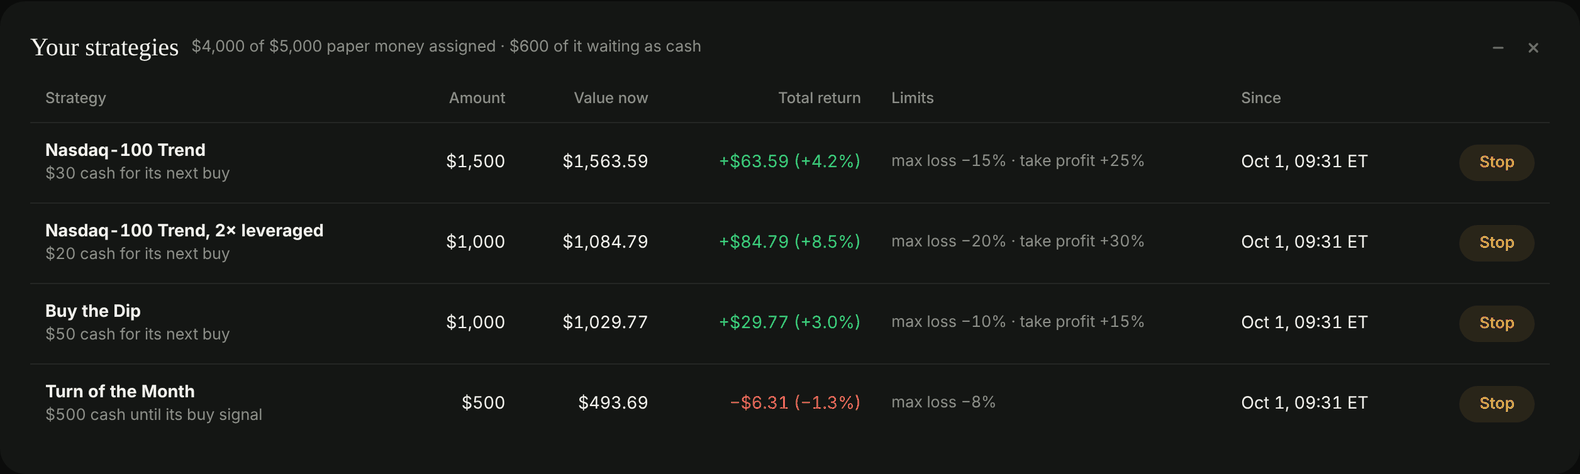
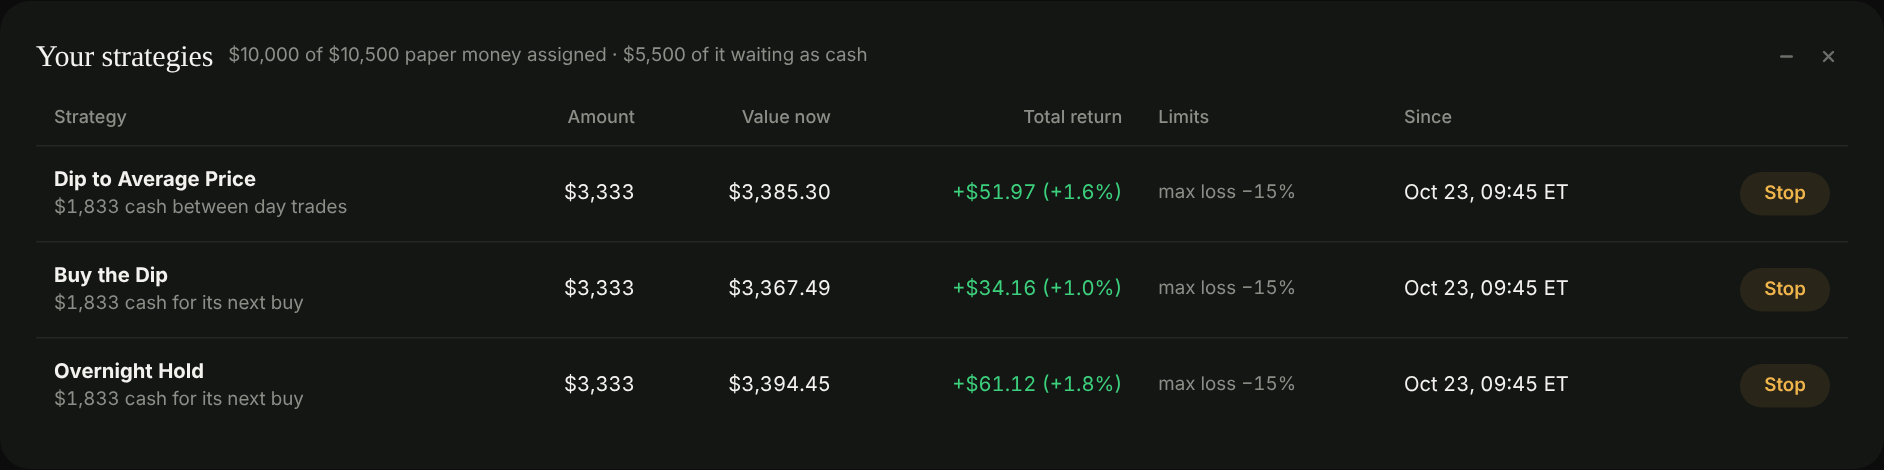
Refresh README, docs and screenshots for Invest for me, top-up and the strategy library
- New dark-mode screenshots from a made-up demo account (randomly generated prices, paper
  only): Home, Autopilot with Invest for me and Add paper cash, the strategy library, Your
  strategies and Research. The stale Discover and Invest images are removed.
- README and COMMANDS: Invest for me (weekly re-pick, keeps picks funded, works with
  Autopilot), Add paper cash, Last Half-Hour Momentum, the daily readout, the Hetzner server.
  ARCHITECTURE lists allocations, auto_invest, readout and intraday.
- Dashboard: the top-up and Invest-for-me rows ignored their hidden attribute (display:flex
  won), so 'Add -$176 paper cash' showed when the account was over its limit.
- test_readout uses a documentation IP (203.0.113.7) in its masking fixture.

Claude-Session: https://claude.ai/code/session_01SPmZ1w2eDJsqxAmfkabzfc

diff --git a/src/ctbot/dashboard/index.html b/src/ctbot/dashboard/index.html
@@ -428,6 +428,7 @@ code { font: 12px var(--code); background: rgba(var(--tint), .06); padding: 1px 
 .ap-h3 { font: 500 14px var(--sans); color: var(--ink); margin: 20px 0 8px; }
 .empty-row { display: flex; align-items: center; justify-content: space-between; gap: 12px; flex-wrap: wrap; color: var(--ink-2); }
 .empty-row p { margin: 0; }
+.empty-row[hidden] { display: none; }  /* display:flex would otherwise beat the hidden attribute */
 /* ---- home positions ---- */
 .holdings { display: grid; }
 .hrow { display: flex; justify-content: space-between; align-items: center; gap: 12px; padding: 12px 0; border-bottom: 1px solid var(--line); }

diff --git a/tests/test_readout.py b/tests/test_readout.py
@@ -39,7 +39,7 @@ def _settings(tmp_path):
     logs = tmp_path / "logs"
     logs.mkdir()
     (logs / "ctbot-paper.log").write_text(
-        "2026-10-21 10:00:00,1 WARNING ctbot.x quote late from 95.217.169.154 key sk-ant-abcdefghijklmnopqrstuvwxyz\n"
+        "2026-10-21 10:00:00,1 WARNING ctbot.x quote late from 203.0.113.7 key sk-ant-abcdefghijklmnopqrstuvwxyz\n"
         "2026-10-21 10:05:00,1 ERROR ctbot.variants book tight cycle failed; continuing\n"
         "2026-10-20 10:05:00,1 ERROR ctbot.x yesterday's error\n")
     return Settings.from_env({"PAPER_LEDGER_PATH": str(data / "paper_ledger.json"), "LOG_DIR": str(logs),
@@ -55,7 +55,7 @@ def test_readout_ranks_books_and_lists_trades_halts_and_masked_events(tmp_path):
     assert "closed AAPL +50.00 (trail)" in text and "bought: MSFT" in text and "closed NVDA -20.00 (stop)" in text
     assert "pulled back: SPY below its trend" in text
     assert "1 errors, 1 warnings" in text and "yesterday" not in text
-    assert "95.217" not in text and "sk-ant" not in text and "<ip>" in text and "<token>" in text
+    assert "203.0.113" not in text and "sk-ant" not in text and "<ip>" in text and "<token>" in text
 
 
 def test_sent_once_15_minutes_after_the_close(tmp_path, monkeypatch):

diff --git a/README.md b/README.md
@@ -15,16 +15,16 @@ no servers of ours, no tracking: your keys and data stay on your machine (or on 
 yourself, see [Run it on a server](#run-it-on-a-server-recommended-for-all-day-trading)).
 
 <p align="center">
-  <img src="docs/images/home.png" alt="CTbot Home screen in dark mode: account value, today's return, cash and other summary tiles, and What you own: QQQ, QLD and IWM with the strategy that bought each, gain or loss and a stop-loss bar" width="790">
+  <img src="docs/images/home.png" alt="CTbot Home screen in dark mode: practice-trading and market status chips, account value, today's profit, cash and other summary tiles, and What you own: QQQ, NVDA and IWM with the strategy that bought each, gain or loss and auto-sell points" width="790">
 </p>
 
-| Discover: strategies with simulated 3/6/12-month returns | Invest: amount, max loss, take-profit |
+| Autopilot: Invest for me, top up paper cash | Strategy library: trading or benched, and why |
 |---|---|
-| <img src="docs/images/discover.png" alt="Discover tab: strategy cards with past-year simulated returns, worst drop, a small chart against the S&P 500 and Stop buttons on the ones you invested in" width="400"> | <img src="docs/images/invest.png" alt="Invest section of a strategy sheet: $1,000 into Overnight Hold with a 15% max loss and a 20% take-profit, and a plain-English summary" width="400"> |
-| **Your strategies: what each one holds and returns** | **Research: backtests since 2010** |
-| <img src="docs/images/strategies.png" alt="Your strategies table: four strategies with the amount in each, value now, total return, cash waiting for the next buy, limits and Stop buttons" width="400"> | <img src="docs/images/research.png" alt="Research chart: growth of $5,000 since 2010 for the Nasdaq-100 trend, holding QQQ, and the 2x volatility-capped trend, on a log scale" width="400"> |
+| <img src="docs/images/autopilot.png" alt="Autopilot card: Autopilot on with a 5% max loss per trade and 8% give-back, Invest for me with up to $10,500 and a 15% max loss, an Add $324 paper cash button, and a note that Invest for me is running three strategies and re-picks weekly" width="400"> | <img src="docs/images/library.png" alt="Strategy library table: each strategy with a Trading or Benched badge, the reason, its simulated past year, practice trades and profit or loss, including Last Half-Hour Momentum" width="400"> |
+| **Your strategies: what each one holds and returns** | **Research: growth of $5,000 since 2010** |
+| <img src="docs/images/strategies.png" alt="Your strategies table: three strategies with $3,333 each, value now, total return, cash waiting for the next buy, a 15% max loss and Stop buttons" width="400"> | <img src="docs/images/research.png" alt="Research chart: growth of $5,000 since 2010 for the Nasdaq-100 trend, holding QQQ, and the 2x volatility-capped trend, on a log scale" width="400"> |
 
-<sub>Screenshots: dark mode with made-up demo data (generated prices and a paper account; no real account). Every number comes from those made-up prices, so none of it is a real result or a promise of anything.</sub>
+<sub>Screenshots: dark mode with made-up demo data (randomly generated prices and a paper account; no real account, keys or server). Every number comes from those made-up prices, so none of it is a real result or a promise of anything.</sub>
 
 ## What you get
 
@@ -38,13 +38,24 @@ yourself, see [Run it on a server](#run-it-on-a-server-recommended-for-all-day-t
     trailing stops and no fixed profit cap, and shows what it trades and why. It learns from its
     own paper record: each closed trade gets a post-mortem (`data/trade_log.jsonl`), a strategy's
     size grows or shrinks with its last 30 days of results, a strategy losing over 10+ trades is
-    benched, and the account stops borrowing after a bad day, a drawdown or a QQQ downtrend. Below it: every
-    strategy in plain English with simulated returns (Invest still starts one by hand), each
-    strategy's paper record, growth of $5,000 since 2010, a crash test back to 1999, a no-hindsight
-    (walk-forward) test and the backtest leaderboard.
+    benched, and the account stops borrowing after a bad day, a drawdown or a QQQ downtrend.
+  - **Invest for me** (on the Autopilot tab): enter one amount and a max loss. The bot picks the
+    five best strategies by their simulated past year (return per unit of worst drop, one version
+    of each rule, none that move alike), splits the money between them, tops them up as cash frees
+    and re-picks every week, swapping a pick only for one clearly better. Picks keep trading on
+    their own money while Autopilot is on.
+  - **Add paper cash**: if the paper account is worth less than your limit (`MAX_TRADING_CAPITAL`),
+    one click tops it up. The deposit is left out of profit and returns.
+  - **Strategy library** (also on Autopilot): every strategy in plain English, trading or benched
+    and why, with simulated returns and its paper record (**Invest** still starts one by hand),
+    plus growth of $5,000 since 2010, a crash test back to 1999, a no-hindsight (walk-forward)
+    test, the backtest leaderboard and the *Settings test* comparison books.
   - **Settings**: add your API keys, connect Robinhood, run a health check.
 - **Strategies** you can run alone or together: Nasdaq-100 trend (plain and 2× leveraged), buy the
-  dip on index funds, turn of the month, and same-day breakout models. Each is described, with its
+  dip on index funds, turn of the month, overnight holds, same-day breakout and dip models,
+  **Last Half-Hour Momentum** (when SPY is up from yesterday's close at 10:00 ET, buy in the last
+  half hour and sell at 15:55; from Gao, Han, Li and Zhou, 2018), and 24 published rules from the
+  strategy library that trade only once their backtest admits them. Each is described, with its
   risk level, on the Autopilot tab.
 - **Hard limits** no model can override: per-position size, total money, daily loss pause,
   drawdown stop, bid/ask spread and liquidity checks, no holding through earnings, SEC 8-K red
@@ -68,13 +79,14 @@ cp .env.example .env              # optional: you can also add keys in the dashb
 ```
 
 Open `http://127.0.0.1:8787`, go to **Settings**, add your keys and press **Connect Robinhood**.
-Then turn on **Autopilot** (or invest in one strategy below it). The bot trades during US market hours while
+Then turn on **Autopilot** and press **Invest for me** (or invest in one strategy by hand). The bot trades during US market hours while
 `./run_ctbot.sh` is running.
 
 ### Run it on a server (recommended for all-day trading)
 
 A laptop sleeps, travels and loses Wi-Fi. For a bot that trades every session, run it on a small
-Linux server instead (a ~$7/month Hetzner or ~$12 DigitalOcean VM works). Everything is in
+Linux server instead. CTbot's own paper bot runs on a ~$7/month Hetzner CX23 (Ubuntu 24.04); a
+~$12 DigitalOcean droplet works the same. Everything is in
 [docs/CLOUD_HOSTING.md](docs/CLOUD_HOSTING.md); in short:
 
 - `deploy/setup-server.sh` (Ubuntu 24.04, as root) installs CTbot as systemd services, paper only.
@@ -85,6 +97,9 @@ Linux server instead (a ~$7/month Hetzner or ~$12 DigitalOcean VM works). Everyt
 - **Alerts**: `ctbot-watchdog` pings a Healthchecks.io URL every minute (`HEARTBEAT_URL`) and,
   with `NOTIFY_URL` set to an ntfy topic, sends phone messages at the open, after the close and
   when something breaks.
+- **Daily readout**: after the close it also posts every paper book's day (P&L, trades, Claude
+  spend, halts, masked warnings) to a side topic your phone doesn't subscribe to, so a Claude
+  session can review the day. `python -m ctbot.readout` prints it locally.
 
 Run only one bot per paper account: once the server trades, turn Mac autostart off
 (`scripts/autostart.sh uninstall`).

diff --git a/docs/COMMANDS.md b/docs/COMMANDS.md
@@ -56,8 +56,20 @@ sudo pmset repeat wakeorpoweron MTWRF 06:55:00
   non-systematic entry and sets its starting stop; those positions have no fixed take-profit, and
   winners keep rolling past their usual exit time while they are up. The trend cores keep their own
   backtested exits. The page also lists the latest decisions with Claude's reasons, and below it the
-  strategy library and research (the old Discover and Research tabs). Autopilot replaces Invest
-  runs while it is on. Paper only.
+  strategy library and research (the old Discover and Research tabs). Strategies you invested in
+  (by hand or with *Invest for me*) keep trading while Autopilot is on, each on its own money:
+  Autopilot's other models can't spend money kept for them. Paper only.
+- **Invest for me** (on Autopilot): one amount (defaults to `MAX_TRADING_CAPITAL`) and a max loss.
+  The bot ranks the unbenched strategies by their simulated year (return per unit of worst drop),
+  splits the amount evenly over the top five, skipping a second version of the same library rule
+  and any strategy whose daily moves track one already picked (correlation above 0.8), and starts
+  them through the normal launch checks. The plan is saved in `data/auto_invest.json`: each paper
+  cycle tops picks up as cash frees, and once a week it re-ranks, swapping a pick only for one at
+  least 20% better (`src/ctbot/auto_invest.py`). **Turn off** stops the re-picks; the strategies keep
+  running until you stop them.
+- **Add paper cash**: when the paper account is worth less than `MAX_TRADING_CAPITAL`, Autopilot
+  offers to top it up. The dashboard asks the paper bot to add the difference; the deposit is
+  recorded in the ledger and left out of profit, returns and readouts. Paper only.
 - **Settings test**: `config/variants.toml` lists extra $10,000 paper accounts that the paper bot
   runs next to the main one, each changing one setting (trail, starting stop, Claude's confidence
   floor, position count, ideas per cycle, reviewer model: `sonnet` and `opus` with their own daily
@@ -91,7 +103,7 @@ sudo pmset repeat wakeorpoweron MTWRF 06:55:00
   has a Revert for each. Uses the Settings-tab Anthropic key, capped by
   `MAX_ASSISTANT_MESSAGES_PER_DAY` (default 100). To undo everything at once, delete
   `~/.ctbot/tuning.json`.
-- Discover's numbers come from `.venv/bin/ctbot-perf` (cached prices only; the scheduled job
+- The strategy library's numbers come from `.venv/bin/ctbot-perf` (cached prices only; the scheduled job
   refreshes them twice a day).
 
 ## Collective2

diff --git a/docs/ARCHITECTURE.md b/docs/ARCHITECTURE.md
@@ -58,6 +58,7 @@ src/ctbot/
     options_flow.py            net bullish premium of large prints
     trend_template.py          stage-2 trend template (maverick-mcp supply/demand screen)
     ranker_signal.py           frozen walk-forward ranking model (shadow, systematic, no review)
+    intraday.py                same-day models, incl. last-half-hour SPY momentum (intraday_momentum)
   aggregation/ensemble.py      weighted agreement score; min agreeing strategies; caps Claude calls
   analysis/stats.py            z-score, returns, SMA, vol, half-life
   analysis/regime.py           SPY trend/volatility regime label for reviews
@@ -74,6 +75,8 @@ src/ctbot/
                                notes only, never changes a trade
   tuning.py                    assistant-tunable knobs (~/.ctbot/tuning.json), bounds and denylist
   autopilot.py                 Autopilot: every enabled model may trade; benching; trailing stops
+  allocations.py               paper launcher: a strategy runs on its own money with a max loss/take-profit
+  auto_invest.py               Invest for me: picks and funds the top 5 strategies, re-picks weekly
   variants.py                  side-by-side paper books (config/variants.toml), run in the paper process
                                after the main book with shared market data and Claude verdicts
   track_record.py              size multiplier per strategy from its last 30 days of paper results
@@ -82,6 +85,7 @@ src/ctbot/
   library/                     12 published rule families x 2 universes (lib_*), traded only if
                                ctbot-library-research admits them
   watchdog.py, notify.py       heartbeat ping (HEARTBEAT_URL) and ntfy phone messages (NOTIFY_URL)
+  readout.py                   end-of-day readout per paper book (P&L, trades, Claude spend, halts)
   risk/manager.py              check_entry / check_exit
   execution/                   OrderExecutor protocol + paper-process import guard
   paper/                       PaperBroker + `ctbot-paper` entrypoint
